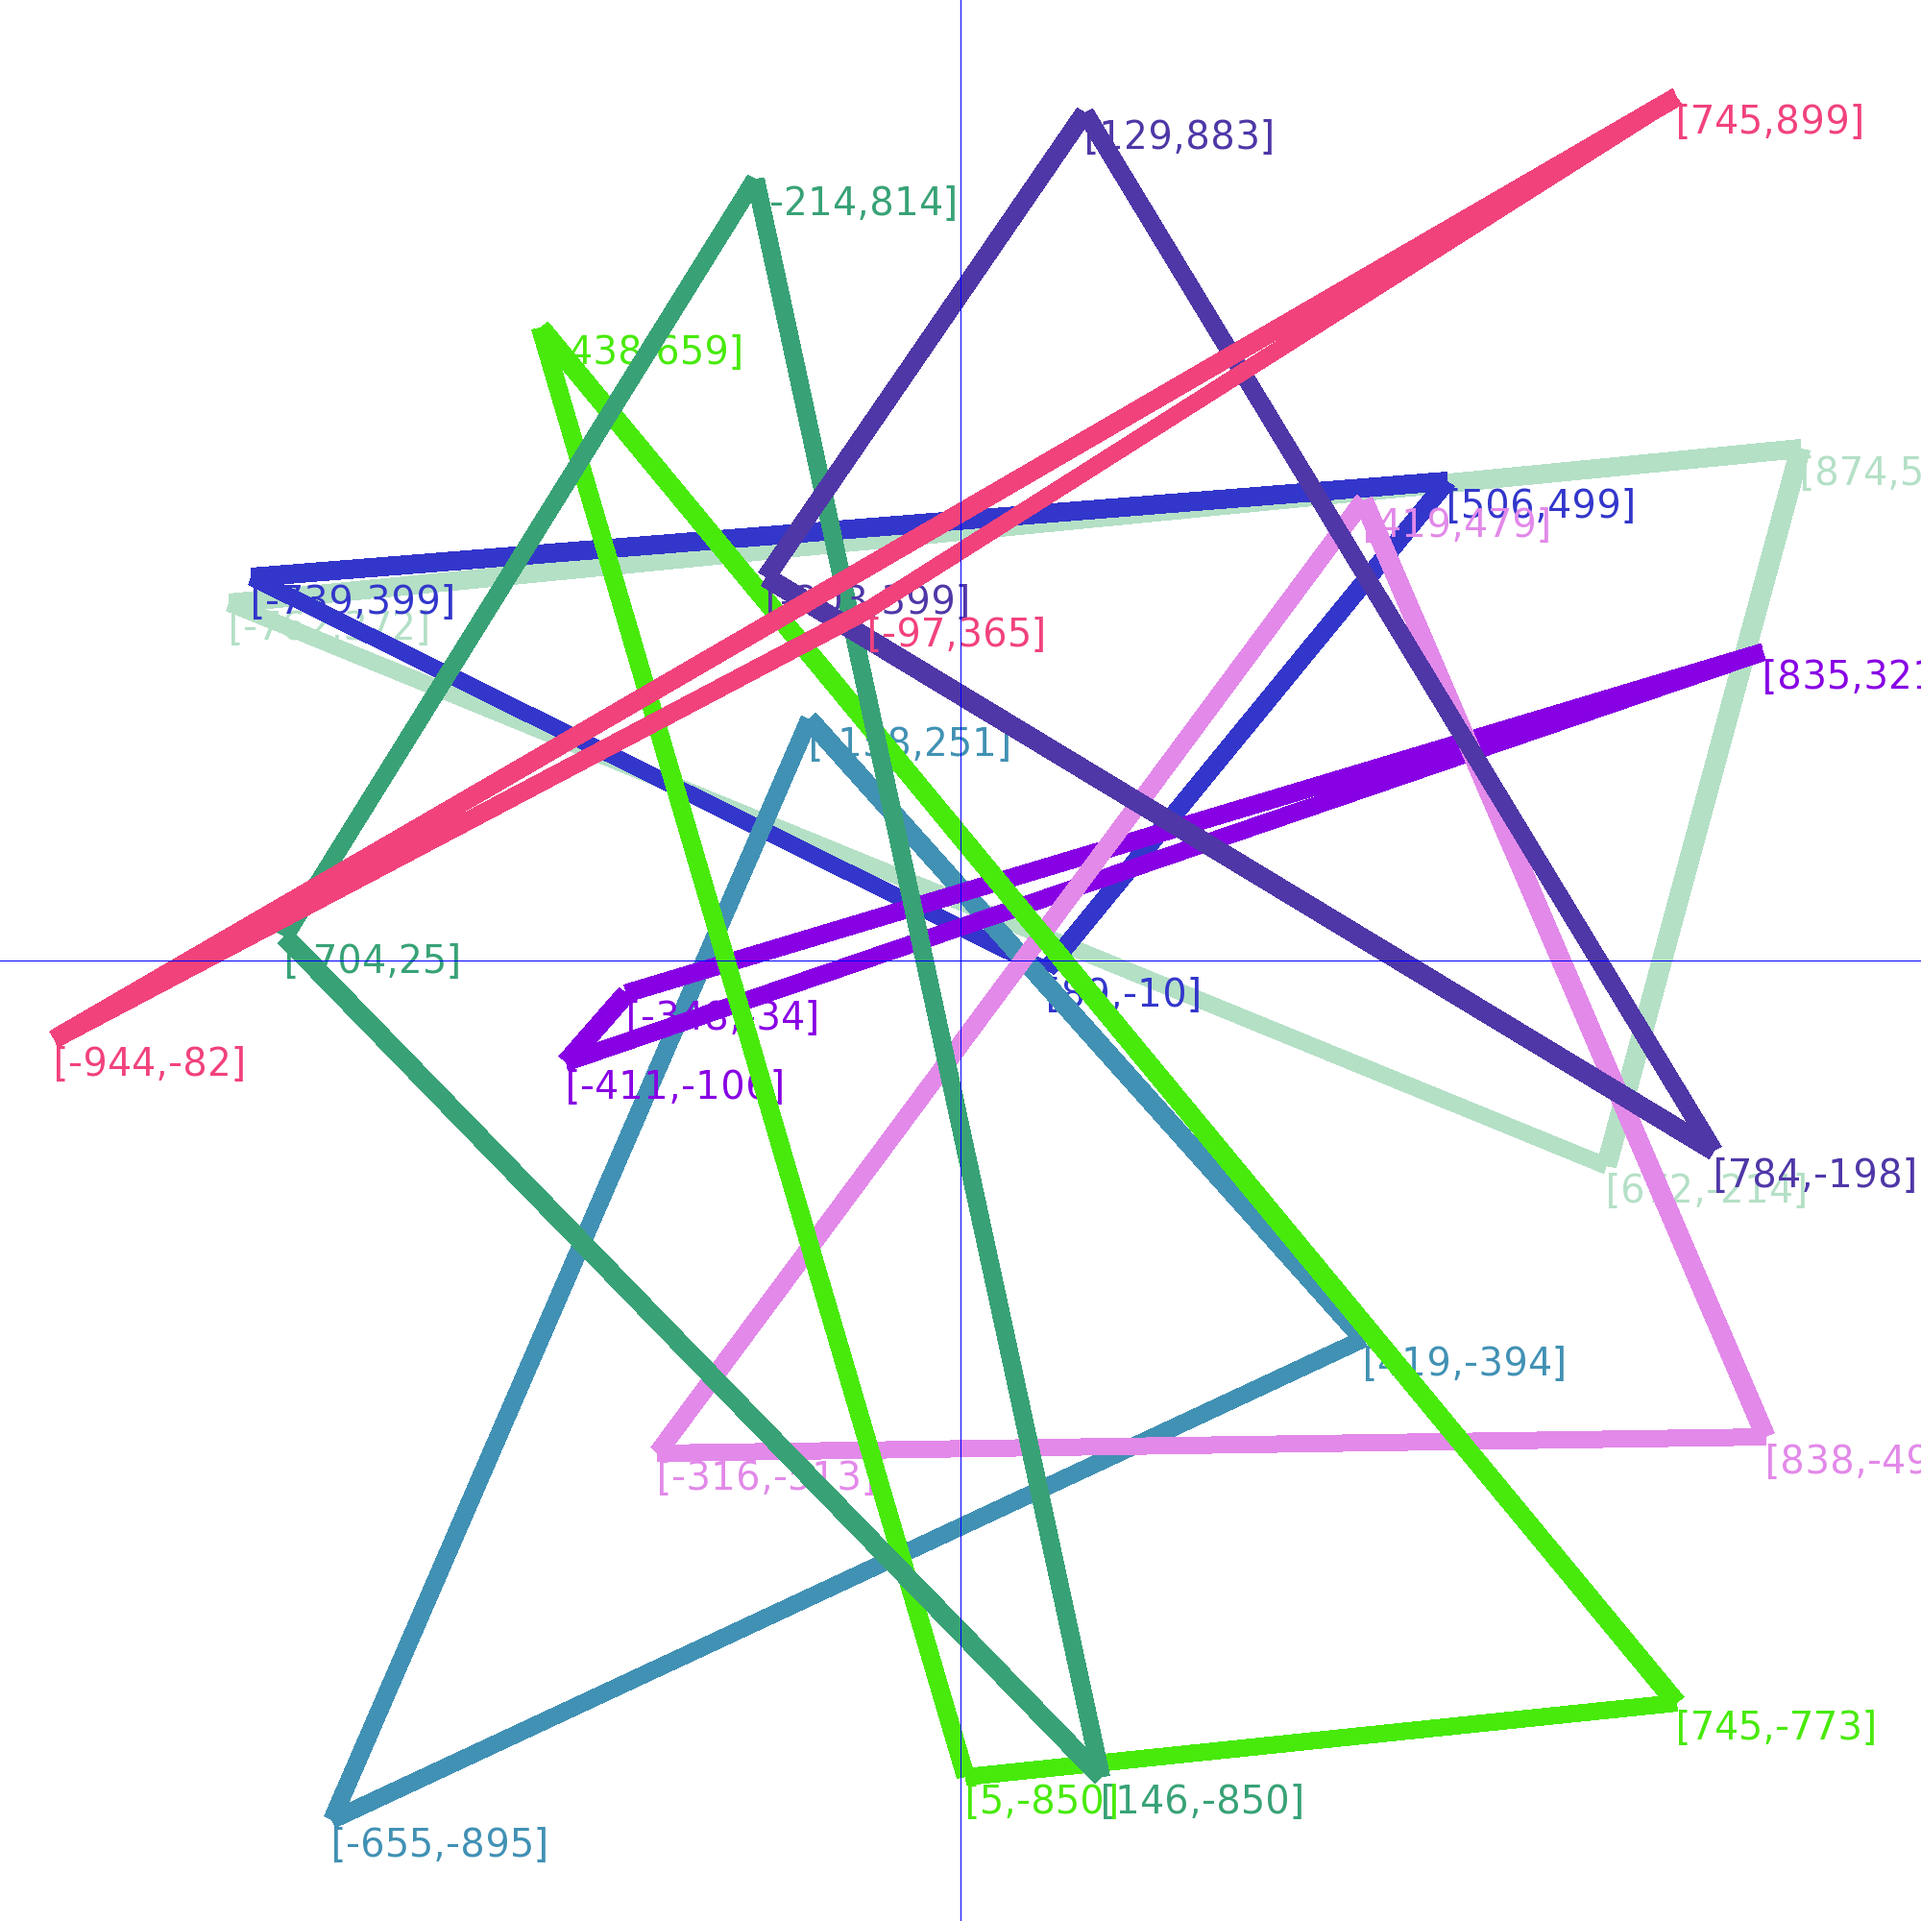
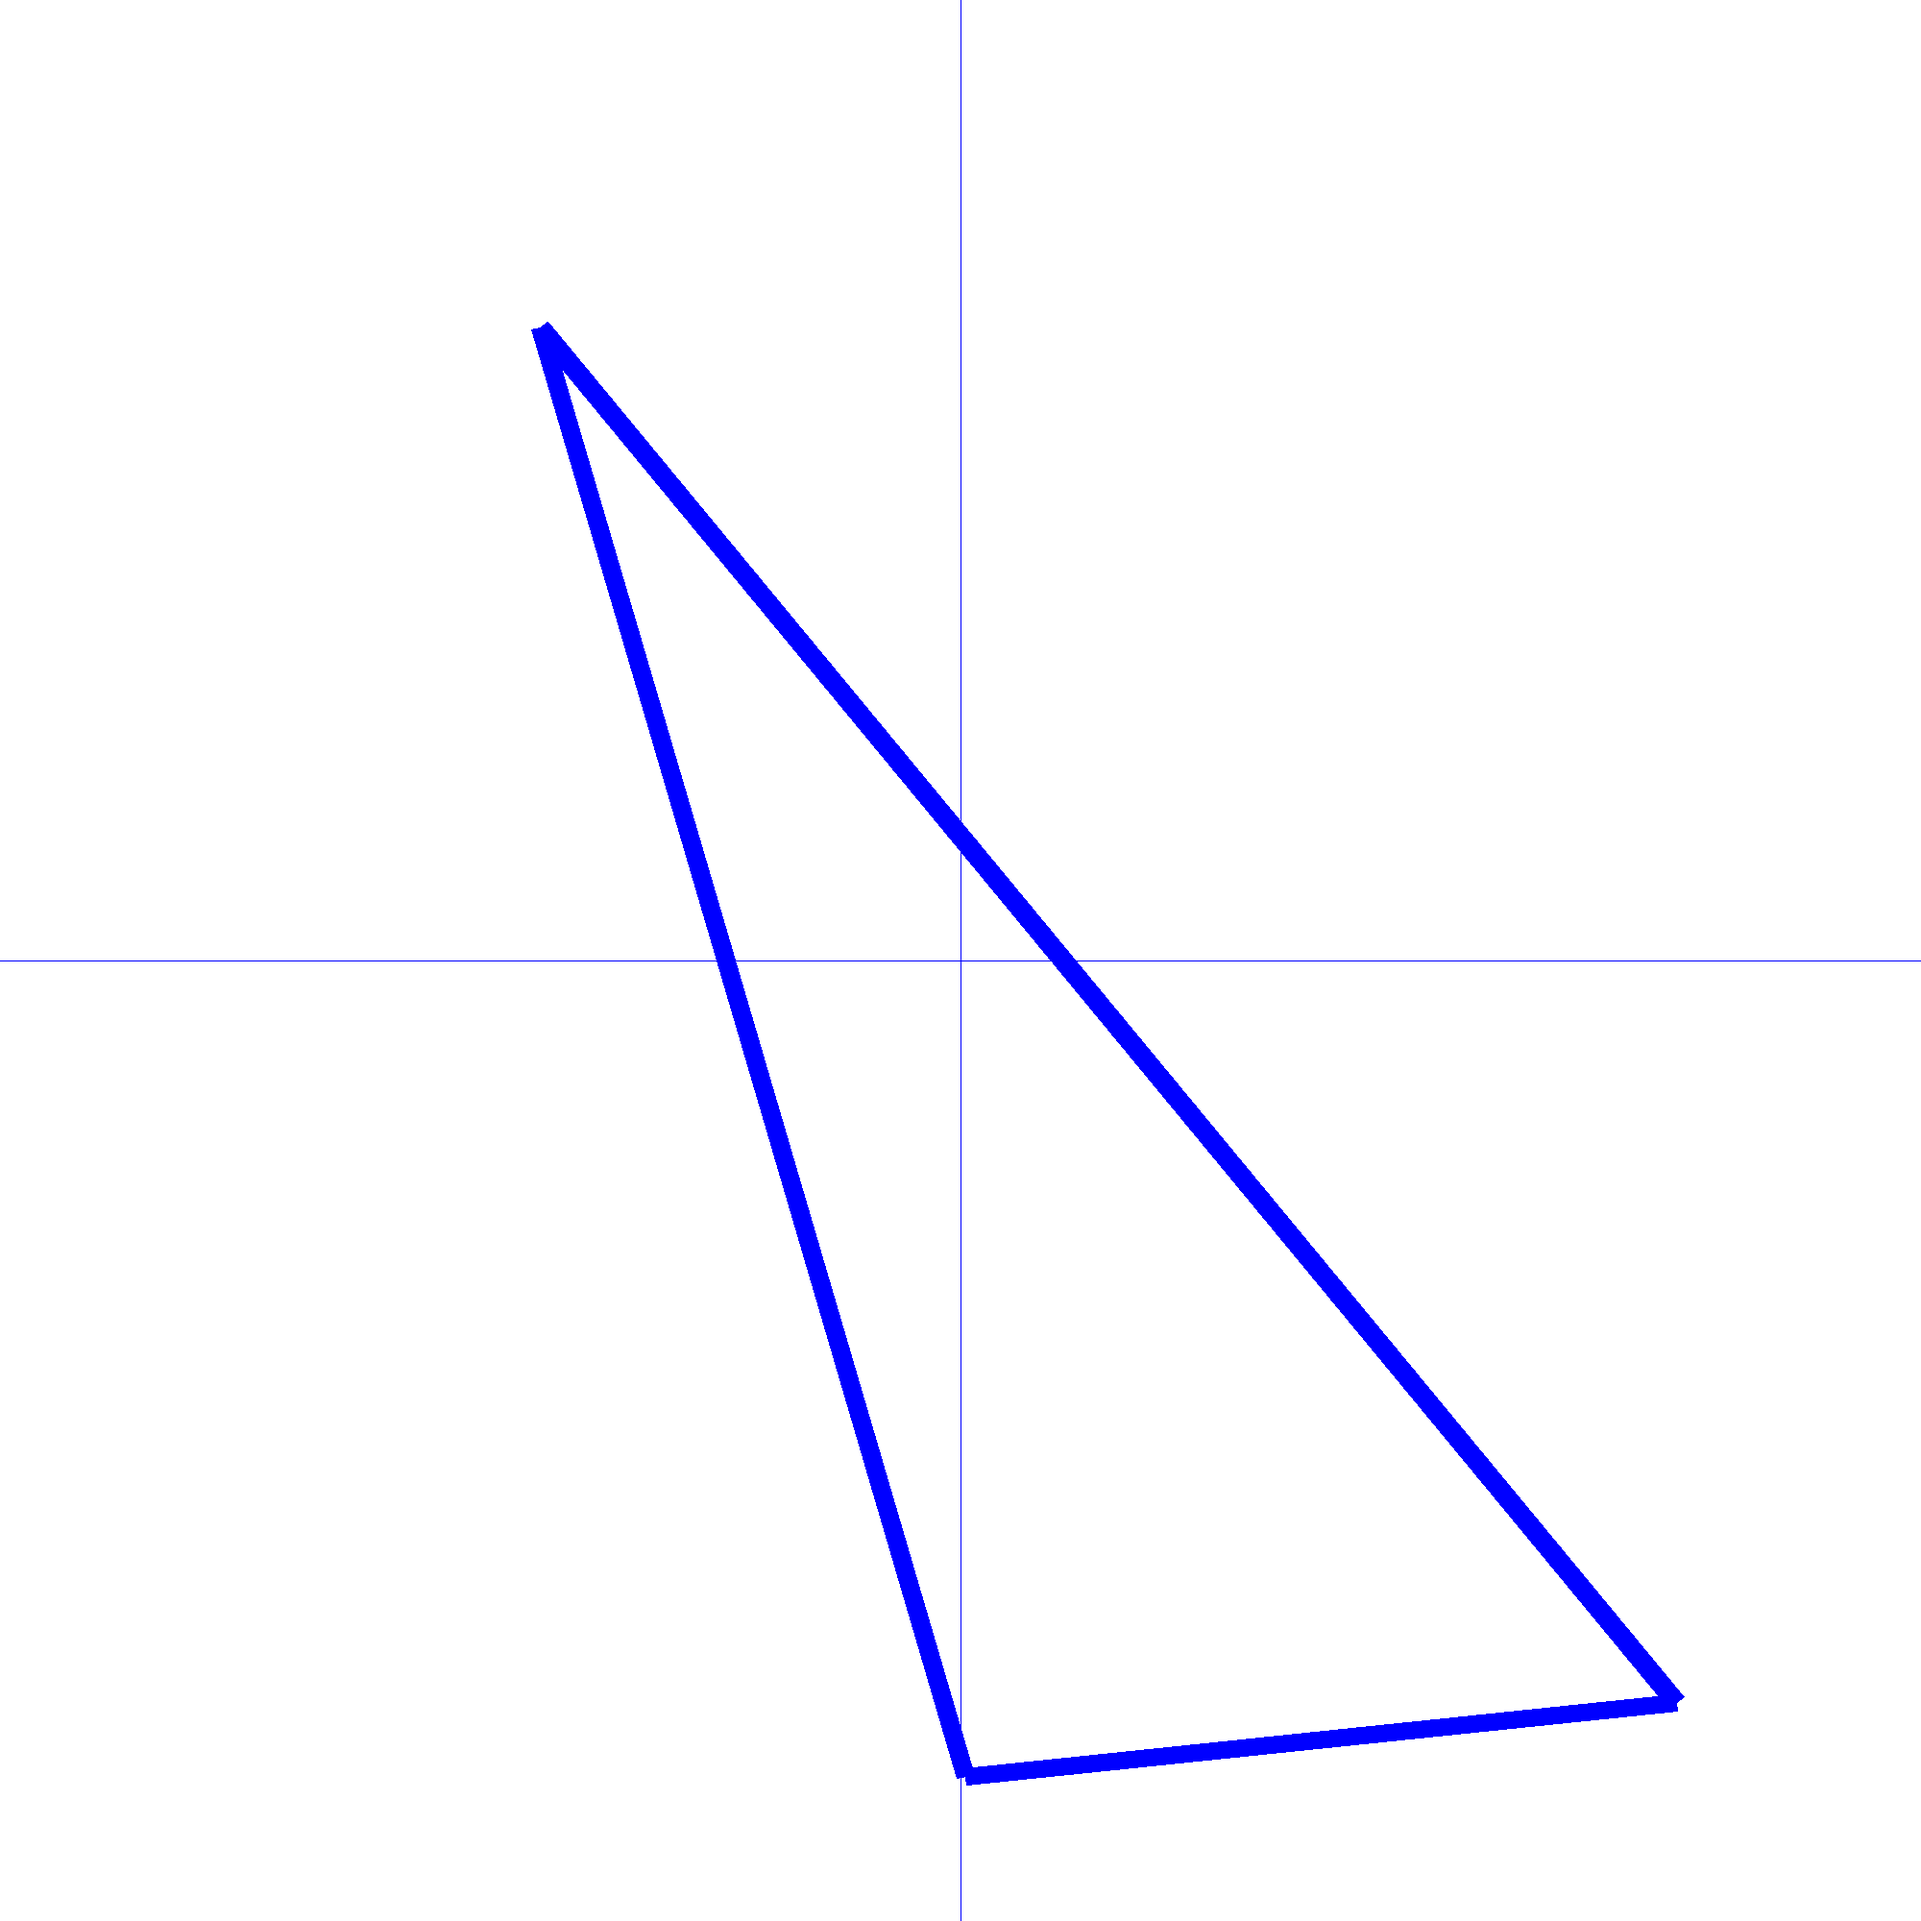
euler: solved problem 102

diff --git a/junk/python/euler.py b/junk/python/euler.py
@@ -1978,11 +1978,12 @@ def level102():
             return self.A.imaging_coords() + self.B.imaging_coords() + \
                    self.C.imaging_coords() + self.A.imaging_coords()
 
-        def is_inside(self, P):
+        def is_inside(self, P, verbose = False):
             b1 = cross_product_2d( Vector(P,self.A), Vector(P,self.B) ) >= 0
             b2 = cross_product_2d( Vector(P,self.B), Vector(P,self.C) ) >= 0
             b3 = cross_product_2d( Vector(P,self.C), Vector(P,self.A) ) >= 0
-            return b1 and b2 and b3
+            if verbose: print b1, b2, b3
+            return b1 == b2 == b3
 
     Origin = Point(0, 0)
     triangles = []
@@ -2017,11 +2018,27 @@ def level102():
     white = (255, 255, 255)
     photo = Image.new('RGB', (2000, 2000), white)
     draw = ImageDraw.Draw(photo)
+    blue = (0, 0, 255)
+    draw.line( [1000, 0, 1000, 2000] , blue)
+    draw.line( [0, 1000, 2000, 1000] , blue)
 
     # font_file = "arial.ttf"
     font_file = "/usr/share/fonts/TTF/Vera.ttf"
     font = ImageFont.truetype(font_file, 40)
     draw.setfont(font)
+
+    t = Triangle( Point(5,-850), Point(-438,659), Point(745,-773) )
+    draw.setink( blue )
+    draw.line( t.imaging_coords(), None, 20 )
+    photo.save('level102.png', "PNG")
+    assert Triangle( Point(5,-850), Point(-438,659), Point(745,-773) ).is_inside(Origin, True)
+    return
+
+    # Bugs with those one as of rev 466
+    # 5,-850,-438,659,745,-773
+    assert Triangle( Point(5,-850), Point(-438,659), Point(745,-773) ).is_inside(Origin, True)
+    # -158,251,419,-394,-655,-895
+    assert Triangle( Point(-158,251), Point(419,-394), Point(-655,-895) ).is_inside(Origin, True)
 
     for i,t in enumerate(bad_triangles):
         if i % 50 == 0 and not i % 100 == 0:
@@ -2039,9 +2056,6 @@ def level102():
             draw.text( t.C.imaging_coords(), t.C.__str__())
 
     # Axes
-    blue = (0, 0, 255)
-    draw.line( [1000, 0, 1000, 2000] , blue)
-    draw.line( [0, 1000, 2000, 1000] , blue)
     photo.save('level102.png', "PNG")
 
 if __name__ == '__main__':
